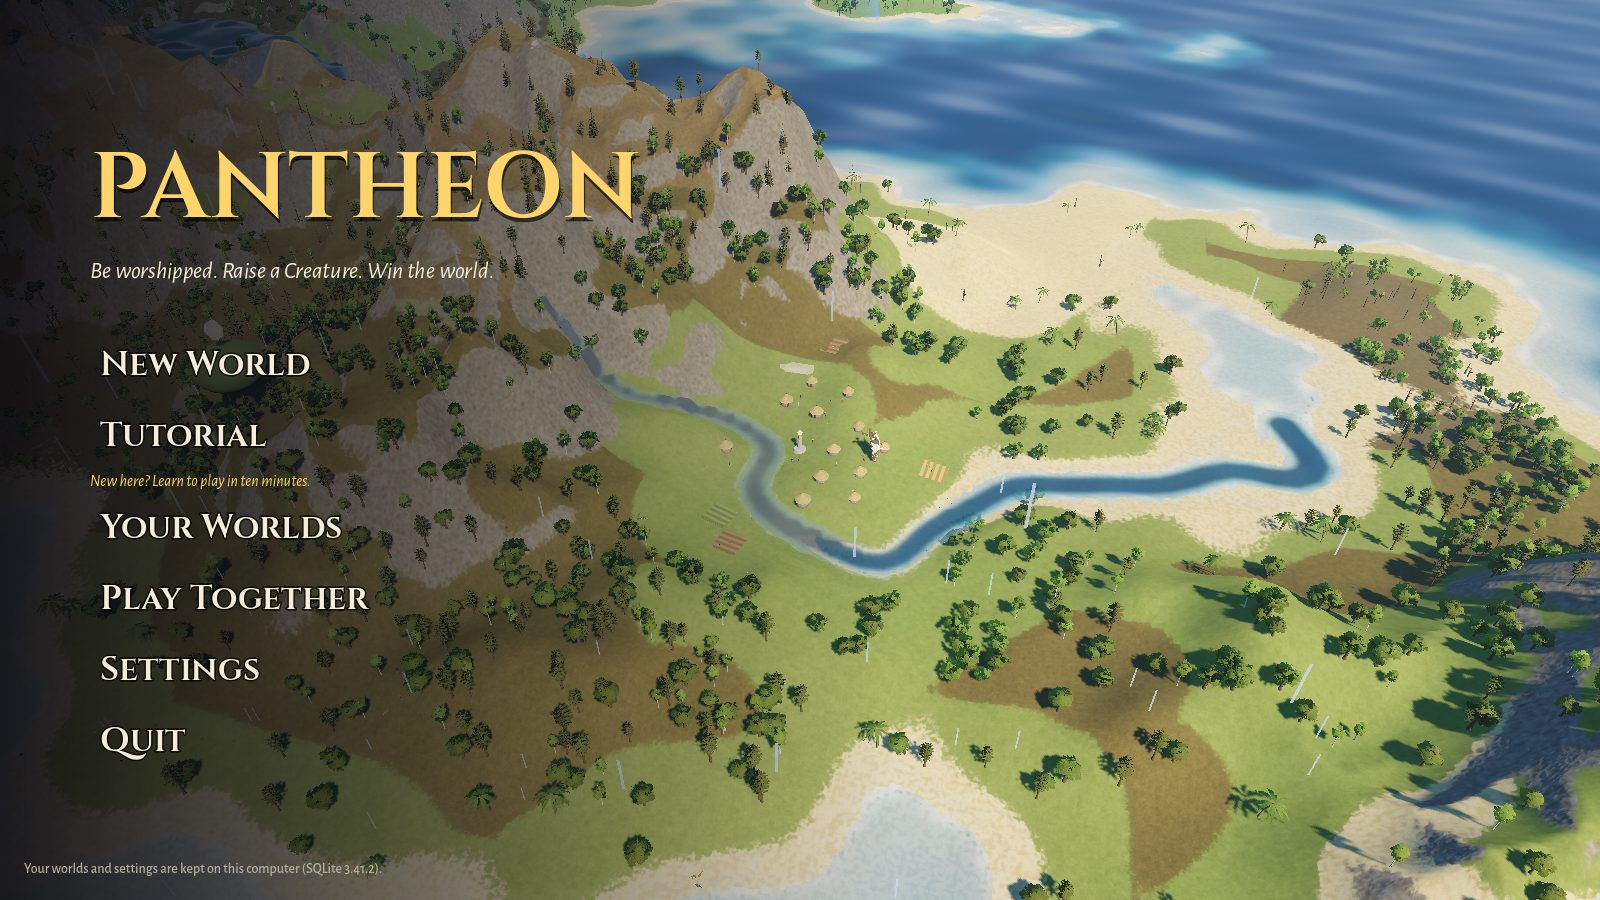
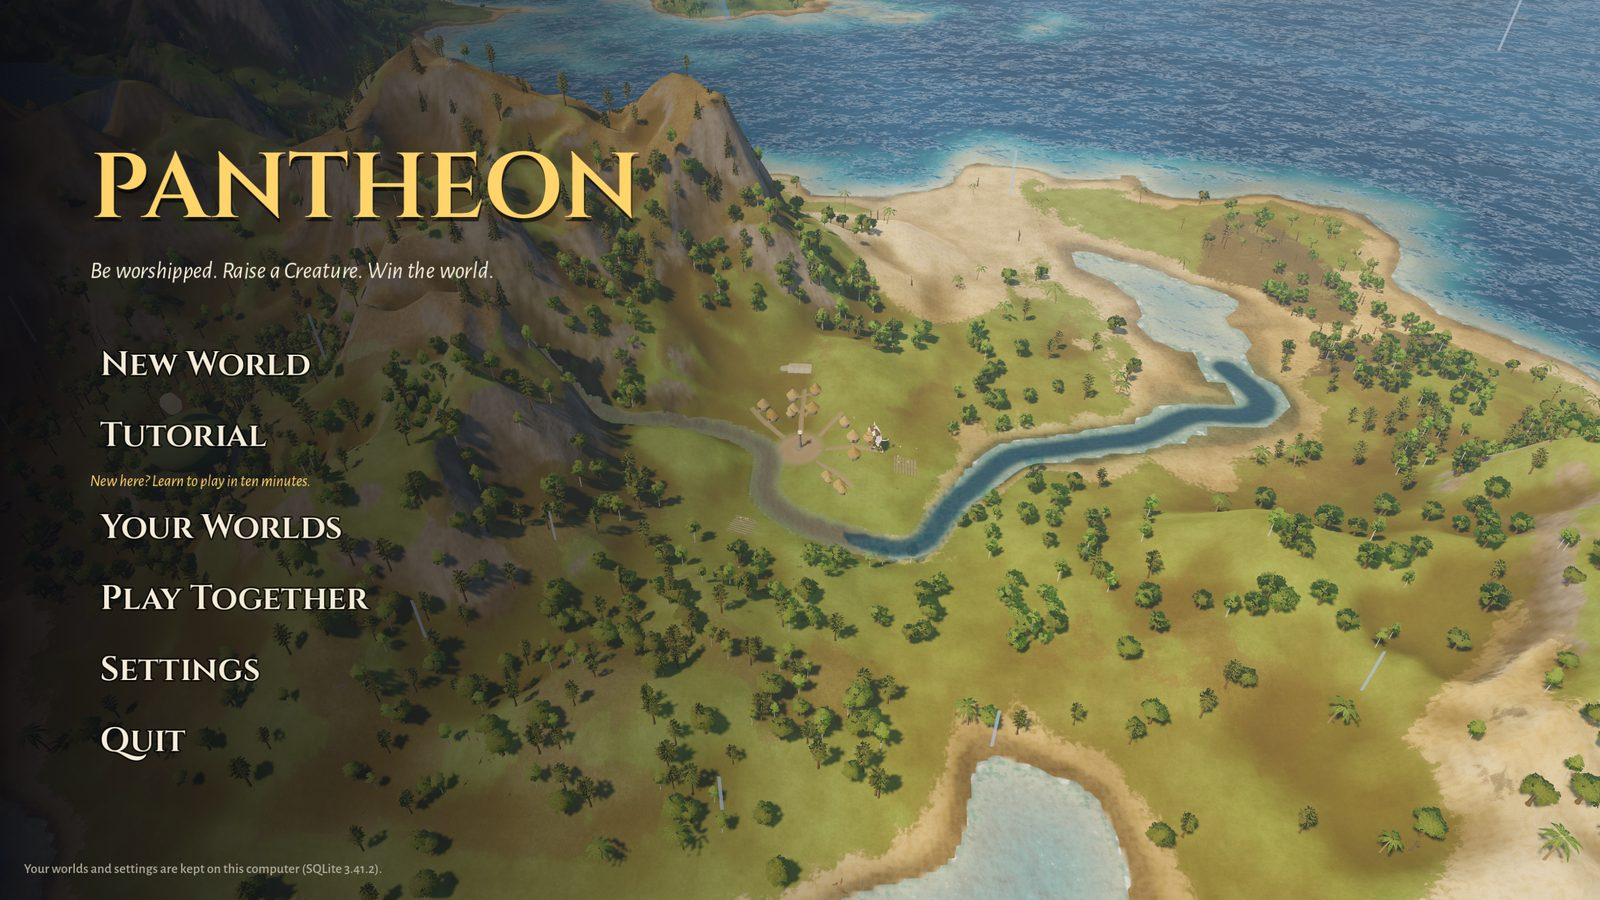
Website and screenshots for the new look; correct part 57's numbers
The website gains a section on the year and the day, new gallery shots, and Dawn, Noon, Dusk and
Night in the island explorer, lit from the game's own day_night.json. Every screenshot in
docs/images is retaken, each holding an hour with --hour as ticks now move the day on, and the
README and image recipes follow them.

The sky read the scene's light, so it was refiltered every frame the sun moved. It now takes the
light as plain uniforms twice a second, which saves up to 0.6 ms in the near view.

Part 57's commit gave daytime frame times measured by mistake at tick 9000, which is 3 in the
morning. The true numbers, at noon with the sun moving, against the build before part 55: close
15.6 to 15.6 ms, near 17.2 to 16.7, wide 21.9 to 19.4, high 17.8 to 16.4. ADR-079 and the plan
now carry them.

diff --git a/site/web/index.html b/site/web/index.html
@@ -277,7 +277,7 @@
         </div>
         <div class="split" style="margin-bottom:40px">
           <figure class="reveal" style="margin:0">
-            <img class="shot" src="images/reward.jpg" alt="Bramble, just rewarded, says &quot;Yes! Bramble do again!&quot;" loading="lazy" width="1600" height="900">
+            <img class="shot" src="images/reward.jpg" alt="Bramble, just rewarded, says &quot;Bramble happy. Ilyra kind.&quot;" loading="lazy" width="1600" height="900">
             <figcaption class="caption">Rewarded, Bramble says so.</figcaption>
           </figure>
           <figure class="reveal" style="margin:0">
@@ -301,6 +301,7 @@
         <div class="explorer reveal" id="explorer">
           <div class="explorer-ui">
             <div class="seed-tabs" id="seed-tabs" role="group" aria-label="Seed"></div>
+            <div class="seed-tabs" id="hour-tabs" role="group" aria-label="Hour of the day"></div>
             <label class="chip" style="display:flex;gap:6px;align-items:center;background:rgba(7,8,13,.7)"><input type="checkbox" id="labels-toggle" checked> Labels</label>
           </div>
           <div class="explorer-legend" id="legend"></div>
@@ -309,8 +310,8 @@
 
         <div class="grid three" style="margin-top:48px">
           <article class="card system reveal"><h3><span class="glyph">☼</span>Seasons and weather</h3>
-            <p>A ten-minute year. Clouds blow in from the sea; dry spells parch the fields; snow lies on the hills and
-              melts into the rivers in spring; hurricanes tear roofs off far inland.</p></article>
+            <p>A ten-minute year you can see: grass dries to straw, oaks blaze and stand bare, frost lies on the land.
+              Dry spells parch the fields; snow melts into the rivers; hurricanes tear roofs off far inland.</p></article>
           <article class="card system reveal"><h3><span class="glyph">≈</span>Rivers and floods</h3>
             <p>Rivers run from the highlands to the sea and lakes fill the hollows. Heavy rain bursts their banks:
               houses fall, people drown, and the silt enriches the fields.</p></article>
@@ -326,6 +327,18 @@
           <article class="card system reveal"><h3><span class="glyph">⚖</span>Diplomacy with teeth</h3>
             <p>Eleven kinds of treaty, some signed in secret. Favours owed. The Divine Council's votes and decrees.
               Wars for conquest, tribute or a holy site, and betrayals remembered longest.</p></article>
+        </div>
+
+        <div class="section-head reveal" style="margin-top:72px">
+          <h3>The year and the day</h3>
+          <p class="lead">The sun crosses your island every four minutes. At dusk the windows light, house by house, most
+            people go indoors, and a lamp burns by each shrine under the moon and stars.</p>
+        </div>
+        <div class="grid two">
+          <img class="shot reveal" src="images/dusk.jpg" alt="Evening over Duskwater, the land gold and long-shadowed" loading="lazy" width="1600" height="900">
+          <img class="shot reveal" src="images/night.jpg" alt="A winter night at Kestrel Rise: lit windows along snowy lanes under the moon" loading="lazy" width="1600" height="900">
+          <img class="shot reveal" src="images/autumn.jpg" alt="Autumn: oaks and birches turning red and gold around a village" loading="lazy" width="1600" height="900">
+          <img class="shot reveal" src="images/winter.jpg" alt="Winter: frost on the land and the roofs of Duskwater" loading="lazy" width="1600" height="900">
         </div>
       </div>
     </section>

diff --git a/site/web/assets/js/main.js b/site/web/assets/js/main.js
@@ -22,9 +22,10 @@ async function initIslands() {
     islandsUnavailable();
     return;
   }
-  const [palette, view, index] = await Promise.all([
+  const [palette, view, day, index] = await Promise.all([
     content('biome_palette.json'),
     content('divine_view.json'),
+    content('day_night.json'),
     fetch('islands/index.json').then((r) => r.json()),
   ]);
   const small = matchMedia('(max-width: 720px)').matches;
@@ -45,10 +46,26 @@ async function initIslands() {
     islandView.show(await loadIsland(button.dataset.file));
   });
   document.querySelector('#labels-toggle').addEventListener('change', (event) => islandView.setLabels(event.target.checked));
+  initHours(document.querySelector('#hour-tabs'), day, islandView);
   const legend = document.querySelector('#legend');
   const biomes = ['Grassland', 'Forest', 'Highland', 'RiverValley', 'Coast', 'Swamp', 'Desert', 'Tundra', 'Volcanic'];
   legend.innerHTML = biomes.map((b) => `<span><i class="swatch" style="background:${palette[b]}"></i>${b.replace(/([a-z])([A-Z])/g, '$1 $2')}</span>`).join('')
     + `<span><i class="swatch" style="background:${palette.ShallowWater}"></i>Water</span>`;
+}
+
+/** The explorer's hours: the game's own light at dawn, noon, dusk and midnight. */
+function initHours(tabs, day, view) {
+  const hours = [['Dawn', 7], ['Noon', 13], ['Dusk', 19.5], ['Night', 0]];
+  const keyAt = (hour) => day.Keys.reduce((best, key) => (Math.abs(key.Hour - hour) < Math.abs(best.Hour - hour) ? key : best));
+  tabs.innerHTML = hours.map(([name, hour], i) => `<button type="button" data-hour="${hour}" aria-pressed="${i === 1}">${name}</button>`).join('');
+  tabs.addEventListener('click', (event) => {
+    const button = event.target.closest('button[data-hour]');
+    if (button) {
+      tabs.querySelectorAll('button').forEach((b) => b.setAttribute('aria-pressed', String(b === button)));
+      view.setHour(keyAt(Number(button.dataset.hour)));
+    }
+  });
+  view.setHour(keyAt(13));
 }
 
 async function initSpecies() {

diff --git a/site/web/assets/js/island.js b/site/web/assets/js/island.js
@@ -203,10 +203,11 @@ export class IslandView {
       this.scene.background = new THREE.Color(SKY);
     }
     this.camera = new THREE.PerspectiveCamera(38, 1, 10, 20000);
-    this.scene.add(new THREE.HemisphereLight(0xc9dcff, 0x4a3a22, 1.25));
-    const sun = new THREE.DirectionalLight(0xffe6bf, 2.1);
-    sun.position.set(-1400, 1600, 900);
-    this.scene.add(sun);
+    this.sky = new THREE.HemisphereLight(0xc9dcff, 0x4a3a22, 1.25);
+    this.scene.add(this.sky);
+    this.sun = new THREE.DirectionalLight(0xffe6bf, 2.1);
+    this.sun.position.set(-1400, 1600, 900);
+    this.scene.add(this.sun);
     this.controls = new OrbitControls(this.camera, this.renderer.domElement);
     this.controls.enableDamping = true;
     this.controls.dampingFactor = 0.06;
@@ -247,6 +248,16 @@ export class IslandView {
     this.renderer.setSize(w, h, false);
     this.camera.aspect = w / h;
     this.camera.updateProjectionMatrix();
+  }
+
+  /** Lights the island as an hour of the game's day_night.json lights it. The strengths are scaled for this renderer. */
+  setHour(key) {
+    this.sky.color.set(key.SkyHorizon).lerp(new THREE.Color(key.SkyTop), 0.5);
+    this.sky.intensity = 0.5 + key.Ambient * 0.75;
+    this.sun.color.set(key.Light);
+    this.sun.intensity = 0.15 + key.Energy * 1.3;
+    this.scene.fog.color.set(key.Haze);
+    this.scene.background?.set(key.SkyHorizon);
   }
 
   /** Shows an island, in place of any shown before. */

diff --git a/site/web/assets/js/gallery.js b/site/web/assets/js/gallery.js
@@ -4,7 +4,12 @@ import { escapeHtml } from './content.js';
 
 export const SHOTS = [
   ['pantheon.jpg', 'The gods of a new world, born with it.'],
-  ['village.jpg', 'Duskwater after fifteen minutes: a rival heals it while Bramble helps build.'],
+  ['village.jpg', 'Duskwater after fifteen minutes: lanes, houses and fields on the river.'],
+  ['night.jpg', 'A winter night at Kestrel Rise, windows lit along the lanes.'],
+  ['dusk.jpg', 'Evening light over Duskwater.'],
+  ['autumn.jpg', 'Autumn turns the oaks and birches.'],
+  ['winter.jpg', 'Frost on the land and the roofs.'],
+  ['miracle.jpg', 'A healing settles over Duskwater.'],
   ['talk.jpg', 'Talking with Wynlius the Iron Hand.'],
   ['proposal.jpg', 'Ashsaeth proposes a pact in the middle of a conversation.'],
   ['fight.jpg', 'Bramble and Pip box; the loser is banished with a scar.'],
@@ -18,7 +23,7 @@ export const SHOTS = [
   ['book.jpg', 'The Book of the World.'],
   ['minds.jpg', 'Choosing a mind for the gods.'],
   ['title.jpg', 'The title screen, over the living island.'],
-  ['creature.jpg', 'Bramble among the huts of its home.'],
+  ['creature.jpg', 'Bramble among the houses of its home.'],
 ];
 
 /** Builds the gallery and its dialog. */

diff --git a/game/Scripts/Presentation/Weather/DaylightView.cs b/game/Scripts/Presentation/Weather/DaylightView.cs
@@ -52,6 +52,9 @@ internal sealed class DaylightView
             _sinceSky = 0.0;
             _sky.SetShaderParameter("top_color", light.SkyTop.ToGodot());
             _sky.SetShaderParameter("horizon_color", light.SkyHorizon.ToGodot());
+            _sky.SetShaderParameter("light_direction", new Vector3(light.ToLight.X, light.ToLight.Y, light.ToLight.Z));
+            _sky.SetShaderParameter("light_color", light.Light.ToGodot());
+            _sky.SetShaderParameter("light_energy", light.Energy);
         }
 
         return light;

diff --git a/docs/images/README.md b/docs/images/README.md
@@ -6,27 +6,33 @@ shows how to take them, on a machine without a GPU too. Each was taken with thes
 
 | Image | Options |
 | --- | --- |
-| `pantheon.jpg` | `--pantheon=on --angel=off --quit-after-frames=50` |
-| `talk.jpg` | `--gods-met=on --talk=2 --angel=off --advance-ticks=1200 --quit-after-frames=50` |
-| `proposal.jpg` | `--gods-met=on --talk=3 --angel=off --advance-ticks=3000 --quit-after-frames=50` |
+| `pantheon.jpg` | `--pantheon=on --angel=off --hour=15 --quit-after-frames=50` |
+| `talk.jpg` | `--gods-met=on --talk=2 --angel=off --advance-ticks=1200 --hour=15 --quit-after-frames=50` |
+| `proposal.jpg` | `--gods-met=on --talk=3 --angel=off --advance-ticks=3000 --hour=15 --quit-after-frames=50` |
 | `minds.jpg` | `--title-page=minds --quit-after-frames=50` |
-| `angel-radiant.jpg` | `--angel=radiant --advance-ticks=1200 --quit-after-frames=50`, cropped to the angel (x 440–1130, y 160–500) |
-| `angel-torn.jpg` | `--angel=torn --advance-ticks=1200 --quit-after-frames=50`, cropped the same way |
-| `angel-fallen.jpg` | `--angel=fallen --advance-ticks=1200 --quit-after-frames=50`, cropped the same way |
-| `angel-kind.jpg`, `angel-unformed.jpg`, `angel-stern.jpg` | `--angel=kind`, `--angel=unformed` or `--angel=stern`, with `--advance-ticks=1200 --quit-after-frames=50`, cropped the same way (the website only) |
-| `village.jpg` | `--advance-ticks=9000 --camera-distance=110 --angel=off --quit-after-frames=50` |
-| `title.jpg` | `--menu=on --quit-after-frames=60` |
-| `creature.jpg` | `--focus=creature --angel=off --quit-after-frames=50` |
-| `reward.jpg` | `--focus=creature --judge=reward --camera-distance=30 --angel=off --advance-ticks=600 --quit-after-frames=36` |
-| `fight.jpg` | `--meet=on --fight=on --focus=creature --angel=off --quit-after-frames=90` |
-| `eruption.jpg` | `--disaster=eruption --angel=off --quit-after-frames=480` |
-| `storm.jpg` | `--weather=hurricane --camera-distance=140 --angel=off --advance-ticks=600 --quit-after-frames=90` |
-| `fire.jpg` | `--disaster=fire --camera-distance=220 --angel=off --advance-ticks=1500 --quit-after-frames=120` |
-| `beast.jpg` | `--great-event=beast --angel=off --quit-after-frames=90` |
-| `religion.jpg` | `--overlay=religion --camera-distance=1500 --weather=normal --angel=off --advance-ticks=3000 --quit-after-frames=50` |
-| `diplomacy.jpg` | `--gods-met=on --diplomacy-panel=on --angel=off --advance-ticks=3000 --quit-after-frames=50` |
-| `book.jpg` | `--book=world --angel=off --advance-ticks=3000 --quit-after-frames=50` |
+| `angel-radiant.jpg` | `--angel=radiant --advance-ticks=1200 --hour=15 --quit-after-frames=50`, cropped to the angel (x 440–1130, y 160–500) |
+| `angel-torn.jpg` | `--angel=torn --advance-ticks=1200 --hour=15 --quit-after-frames=50`, cropped the same way |
+| `angel-fallen.jpg` | `--angel=fallen --advance-ticks=1200 --hour=15 --quit-after-frames=50`, cropped the same way |
+| `angel-kind.jpg`, `angel-unformed.jpg`, `angel-stern.jpg` | `--angel=kind`, `--angel=unformed` or `--angel=stern`, with `--advance-ticks=1200 --hour=15 --quit-after-frames=50`, cropped the same way (the website only) |
+| `village.jpg` | `--advance-ticks=9000 --camera-distance=110 --angel=off --hour=15 --quit-after-frames=50` |
+| `title.jpg` | `--menu=on --hour=15 --quit-after-frames=60` |
+| `creature.jpg` | `--focus=creature --angel=off --hour=15 --quit-after-frames=50` |
+| `reward.jpg` | `--focus=creature --judge=reward --camera-distance=46 --angel=off --advance-ticks=9000 --hour=15 --quit-after-frames=36` |
+| `fight.jpg` | `--meet=on --fight=on --focus=creature --angel=off --hour=15 --quit-after-frames=90` |
+| `eruption.jpg` | `--disaster=eruption --angel=off --hour=18.1 --quit-after-frames=480` |
+| `storm.jpg` | `--weather=hurricane --camera-distance=140 --angel=off --advance-ticks=600 --hour=15 --quit-after-frames=90` |
+| `fire.jpg` | `--disaster=fire --camera-distance=220 --angel=off --advance-ticks=1500 --hour=18.1 --quit-after-frames=120` |
+| `beast.jpg` | `--great-event=beast --angel=off --hour=15 --quit-after-frames=90` |
+| `religion.jpg` | `--overlay=religion --camera-distance=1500 --weather=normal --angel=off --advance-ticks=3000 --hour=15 --quit-after-frames=50` |
+| `diplomacy.jpg` | `--gods-met=on --diplomacy-panel=on --angel=off --advance-ticks=3000 --hour=15 --quit-after-frames=50` |
+| `book.jpg` | `--book=world --angel=off --advance-ticks=3000 --hour=15 --quit-after-frames=50` |
+| `autumn.jpg` | `--season=autumn --focus=3 --camera-distance=170 --advance-ticks=9000 --angel=off --hour=15 --quit-after-frames=150` |
+| `winter.jpg` | `--season=winter --camera-distance=130 --advance-ticks=9000 --angel=off --hour=15 --quit-after-frames=150` |
+| `dusk.jpg` | `--camera-distance=200 --advance-ticks=9000 --angel=off --hour=18.1 --quit-after-frames=150` |
+| `night.jpg` | `--season=winter --focus=8 --camera-distance=90 --advance-ticks=9000 --angel=off --hour=22.5 --quit-after-frames=150` |
+| `miracle.jpg` | `--divine-power=9000 --cast=heal --camera-distance=90 --advance-ticks=9000 --angel=off --hour=15 --quit-after-frames=26` |
 
+Each holds an hour with `--hour`, as ticks now move the day on: tick 9000 is 3 in the morning (ADR-079).
 No model was chosen, so the offline scribes wrote and spoke for the gods. The rival gods' names
 come from the world's seed, so the same options give the same gods. What
 happens in the frames before the screenshot depends on how fast the computer runs them, so a

diff --git a/README.md b/README.md
@@ -138,7 +138,7 @@ told why on its next turn.
 
 ### Creatures with a voice
 
-![Bramble, just rewarded by your hand, says "Yes! Bramble do again!"](docs/images/reward.jpg)
+![Bramble, just rewarded by your hand, says "Bramble happy. Ilyra kind."](docs/images/reward.jpg)
 
 Every Creature has a mind too, yours included. It wakes when it meets another Creature, ends a
 fight, is rewarded or punished, grows a level, gets hungry or tired, sees its home struck, or is
@@ -259,7 +259,7 @@ rest for two minutes while the scribes speak.
 
 ## The rest of the world
 
-![Duskwater after fifteen minutes: 365 people in timber houses by a river, with roads and bridges, as a rival god's healing settles over the village and the player's Creature helps build](docs/images/village.jpg)
+![Duskwater after fifteen minutes: lanes of timber houses by a river, with fields, roads and bridges, and the player's Creature at work](docs/images/village.jpg)
 
 - **Belief is power.** Every village feels faith, love, fear and doubt for every god. Those
   feelings decide who it follows and how much power each god gets. Fear wins followers fast, but
@@ -282,7 +282,11 @@ rest for two minutes while the scribes speak.
 
 | | |
 | --- | --- |
-| ![The title screen over the living island](docs/images/title.jpg) | ![Bramble, the player's giant cow, playing among the huts of its home village](docs/images/creature.jpg) |
+| ![Evening over Duskwater: the land gold, the shadows long](docs/images/dusk.jpg) | ![A winter night at Kestrel Rise: lit windows along snowy lanes under the moon](docs/images/night.jpg) |
+| **Evening.** The sun crosses your island every four minutes. | **Night.** Windows light, people go indoors, and lamps burn by the shrines. |
+| ![Autumn: oaks and birches turning red and gold around a village](docs/images/autumn.jpg) | ![Winter: frost on the land and the roofs of Duskwater](docs/images/winter.jpg) |
+| **Autumn.** The grass dries to straw and the oaks blaze. | **Winter.** The fields lie fallow and the trees stand bare. |
+| ![The title screen over the living island](docs/images/title.jpg) | ![Bramble, the player's giant cow, among the houses of its home village](docs/images/creature.jpg) |
 | **The title screen.** Continue a world, take the tutorial or start a new one. | **Your Creature.** It lives, works and learns on its own. |
 | ![Bramble the cow boxing Pip, a rival god's ape, with a health bar over each](docs/images/fight.jpg) | ![The volcano erupting: a plume of smoke over the peak and fire running down its slope](docs/images/eruption.jpg) |
 | **Creatures fight.** Set yours on a rival's, and the loser is banished with a scar. | **The volcano wakes.** Lava runs downhill and ash falls on the villages. |

diff --git a/docs/ADR/ADR-079-day-and-night.md b/docs/ADR/ADR-079-day-and-night.md
@@ -40,8 +40,10 @@ far more `Ambient` than noon, as the sky's dim colours are also the light it giv
 ### The sky (`sky.gdshader`)
 
 A custom sky replaces the stock one: a gradient the hour sets, a glow and a disc for the sun or moon,
-and high cloud and stars in the sky itself but not in the light it gives. Its radiance is refiltered
-incrementally at 128 pixels and its colours change twice a second, so a moving sun costs almost nothing.
+and high cloud and stars in the sky itself but not in the light it gives. A sky that reads the scene's
+light is refiltered every frame the light moves, which cost up to 0.6 ms in the near view. So it is
+given the light as plain uniforms, like its colours, twice a second, and refiltered incrementally at
+128 pixels.
 
 ### Night in the villages
 
@@ -67,16 +69,19 @@ six hours on with the debug tools, `--hour` to hold an hour, and the hour in F1.
 
 ## Consequences
 
-- **Performance**, uncapped at 2720x1530 on an M3 Pro, the build before part 55 against this one, each
-  run alternating:
+- **Performance**, uncapped at 2720x1530 on an M3 Pro, the build before part 55 against this one, with
+  the sun or moon moving. "Before" had a fixed afternoon sun; noon is the dearest hour of the day:
 
-  | View | Before | After, day | After, night |
+  | View | Before | Noon | Night |
   | --- | --- | --- | --- |
-  | Close (40 m) | 15.6 ms | 14.7 ms | 15.0 ms |
-  | Near (110 m) | 17.2 ms | 16.4 ms | 16.7 ms |
-  | Wide (420 m) | 21.9 ms | 17.1 ms | 17.2 ms |
-  | High (1400 m) | 17.8 ms | 15.9 ms | 15.9 ms |
-  | Stress world | 21.7 ms | 19.5 ms | |
+  | Close (40 m) | 15.6 ms | 15.6 ms | 15.6 ms |
+  | Near (110 m) | 17.2 ms | 16.7 ms | 16.9 ms |
+  | Wide (420 m) | 21.9 ms | 19.4 ms | 17.9 ms |
+  | High (1400 m) | 17.8 ms | 16.4 ms | 16.0 ms |
+  | Stress world, morning | 21.7 ms | 19.5 ms | |
+
+  The commit of this part gave better daytime numbers, measured by mistake at tick 9000, which is
+  3 in the morning. These are the true ones.
 
 - At ×16 a day passes in 15 seconds, and shadows sweep visibly. It is the price of a clock every
   player shares; the setting holds the hour for those who mind.

diff --git a/.docs/milestone-15-part-57-day-and-night.md b/.docs/milestone-15-part-57-day-and-night.md
@@ -51,6 +51,8 @@ flowchart LR
 
 ## Results
 
-1978 tests pass (18 new). Uncapped at 2720x1530 on the M3 Pro, before part 55 and now, by day: close
-15.6 → 14.7 ms, near 17.2 → 16.4, wide 21.9 → 17.1 and high 17.8 → 15.9; night costs about the same.
-The stress world (50 villages, 7000 people) went from 21.7 to 19.5 ms.
+1978 tests pass (18 new). Uncapped at 2720x1530 on the M3 Pro, before part 55 and now, at noon with the
+sun moving: close 15.6 → 15.6 ms, near 17.2 → 16.7, wide 21.9 → 19.4 and high 17.8 → 16.4; night costs
+the same or less. The stress world (50 villages, 7000 people) went from 21.7 to 19.5 ms.
+
+Remember that a tick is an hour now: tick 9000 is 3 in the morning, so measure and capture with `--hour`.
